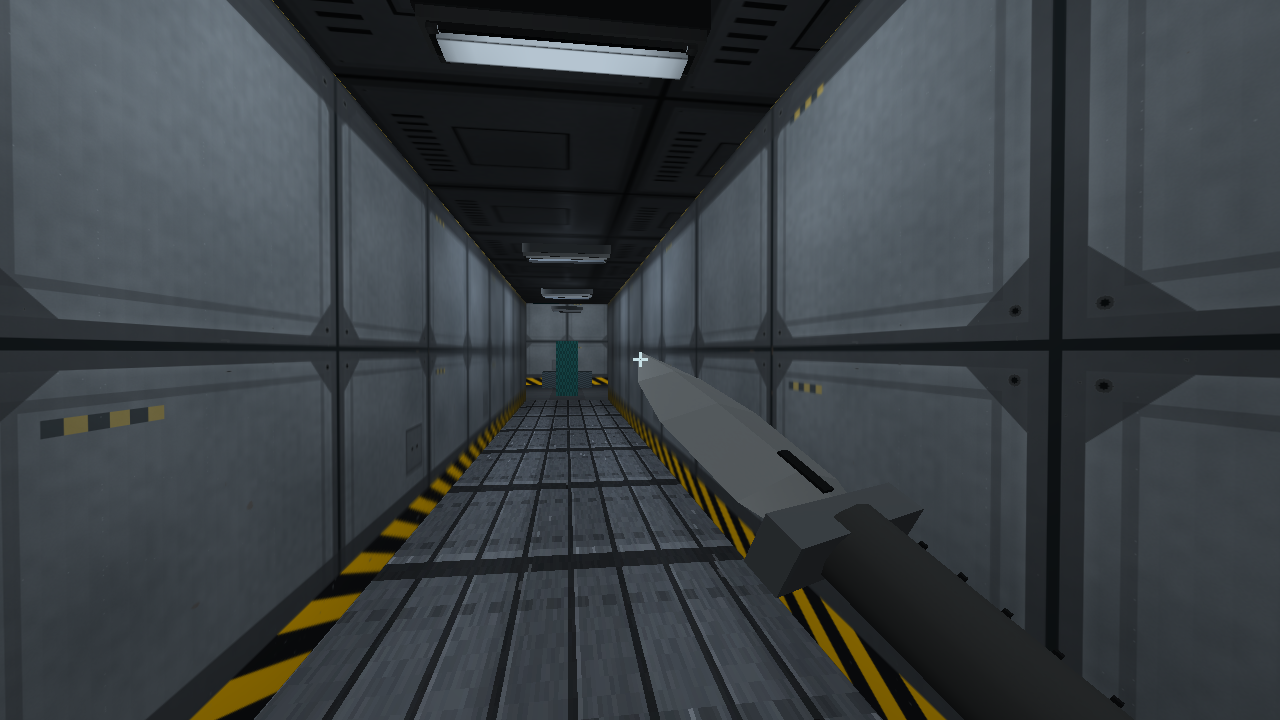
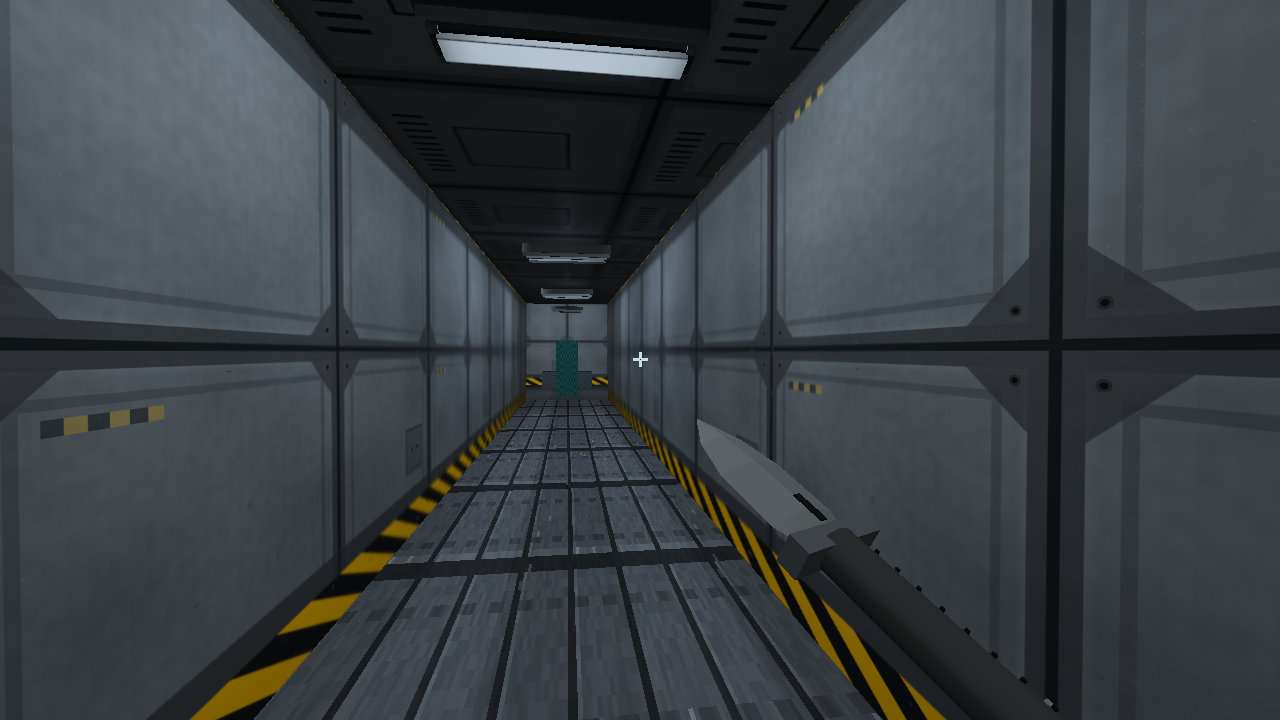
fix: correct weapon grips and reduce viewmodel footprint

Changed region(s): [[0.5, 0.4889, 0.75, 0.8556], [0.75, 0.8556, 0.8125, 0.9472], [0.5625, 0.6722, 0.5938, 0.7028]]

diff --git a/tests/test_renderer.cpp b/tests/test_renderer.cpp
@@ -8,6 +8,7 @@
 #include "game/visual/WeaponViewmodelAssets.hpp"
 #include "render/Texture.hpp"
 
+#include <algorithm>
 #include <array>
 #include <cmath>
 #include <cstring>
@@ -1380,6 +1381,42 @@ void testWeaponViewmodelAssets()
             "weapon viewmodel groups physical materials into few draws");
         expect(triangles > 100U && triangles < 1600U,
             "weapon viewmodel stays within its triangle budget");
+        if (role != HudWeaponRole::Knife) {
+            const auto& grip = meshes[static_cast<std::size_t>(
+                WeaponMaterial::Polymer)];
+            float minimumY = std::numeric_limits<float>::max();
+            float maximumY = -std::numeric_limits<float>::max();
+            std::size_t gripVertices = 0U;
+            for (const auto& vertex : grip.vertices) {
+                if (vertex.semanticRegion != weaponGripSemanticRegion) {
+                    continue;
+                }
+                minimumY = std::min(minimumY, vertex.position.y);
+                maximumY = std::max(maximumY, vertex.position.y);
+                ++gripVertices;
+            }
+            const float middleY = (minimumY + maximumY) * 0.5F;
+            float upperZ = 0.0F;
+            float lowerZ = 0.0F;
+            std::size_t upperCount = 0U;
+            std::size_t lowerCount = 0U;
+            for (const auto& vertex : grip.vertices) {
+                if (vertex.semanticRegion != weaponGripSemanticRegion) {
+                    continue;
+                }
+                if (vertex.position.y > middleY) {
+                    upperZ += vertex.position.z;
+                    ++upperCount;
+                } else {
+                    lowerZ += vertex.position.z;
+                    ++lowerCount;
+                }
+            }
+            expect(gripVertices == 24U && upperCount > 0U && lowerCount > 0U
+                    && lowerZ / static_cast<float>(lowerCount)
+                        < upperZ / static_cast<float>(upperCount),
+                "firearm grip base rakes toward the rear, not the muzzle");
+        }
     }
     for (std::size_t material = 0U; material < weaponMaterialCount; ++material) {
         const auto images = makeUsedWeaponMaterialImages(

diff --git a/src/game/visual/WeaponViewmodelAssets.cpp b/src/game/visual/WeaponViewmodelAssets.cpp
@@ -25,7 +25,8 @@ constexpr std::size_t indexOf(const WeaponMaterial material) noexcept
 class WeaponMeshBuilder {
 public:
     void box(const WeaponMaterial material, const Vec3 center,
-        const Vec3 size, const float tiltDegrees = 0.0F)
+        const Vec3 size, const float tiltDegrees = 0.0F,
+        const std::uint32_t semanticRegion = 0U)
     {
         MeshData& destination = meshes_[indexOf(material)];
         const MeshData source = wkc::render::makeBoxMesh();
@@ -44,6 +45,7 @@ public:
             vertex.normal = {normal.x,
                 normal.y * cosine - normal.z * sine,
                 normal.y * sine + normal.z * cosine};
+            vertex.semanticRegion = semanticRegion;
             destination.vertices.push_back(vertex);
         }
         for (const std::uint32_t index : source.indices) {
@@ -233,7 +235,7 @@ void makePistol(WeaponMeshBuilder& mesh)
     using enum WeaponMaterial;
     mesh.box(Polymer, {0.0F, -0.052F, -0.02F}, {0.18F, 0.115F, 0.37F});
     mesh.box(Polymer, {0.0F, -0.205F, -0.115F},
-        {0.125F, 0.29F, 0.15F}, -14.0F);
+        {0.125F, 0.29F, 0.15F}, 22.0F, weaponGripSemanticRegion);
     mesh.box(Recess, {0.0F, -0.355F, -0.072F}, {0.13F, 0.025F, 0.17F});
     mesh.beveledPrism(CoatedSteel, {0.0F, 0.055F, 0.015F},
         {0.205F, 0.125F, 0.55F}, 0.022F);
@@ -282,7 +284,7 @@ void makeCarbine(WeaponMeshBuilder& mesh)
     mesh.box(Polymer, {0.0F, -0.035F, -0.655F}, {0.225F, 0.20F, 0.07F});
     mesh.box(Recess, {0.0F, -0.035F, -0.697F}, {0.218F, 0.20F, 0.019F});
     mesh.box(Polymer, {0.0F, -0.185F, -0.095F},
-        {0.13F, 0.275F, 0.155F}, -11.0F);
+        {0.13F, 0.275F, 0.155F}, 18.0F, weaponGripSemanticRegion);
     mesh.box(Recess, {0.0F, -0.16F, 0.015F}, {0.025F, 0.025F, 0.185F});
     mesh.box(Recess, {0.0F, -0.222F, 0.093F}, {0.025F, 0.105F, 0.026F});
     mesh.box(Recess, {0.0F, -0.27F, 0.025F}, {0.025F, 0.021F, 0.14F});

diff --git a/src/game/visual/GdpRenderer.cpp b/src/game/visual/GdpRenderer.cpp
@@ -2012,15 +2012,18 @@ bool GdpRenderer::render(
         const bool carbine = weaponViewmodel.role == HudWeaponRole::Carbine;
         const bool knife = weaponViewmodel.role == HudWeaponRole::Knife;
         const wkc::core::Vec3 baseOffset{
-            carbine ? 0.28F : knife ? 0.31F : 0.19F,
-            carbine ? -0.33F : knife ? -0.29F : -0.19F,
-            carbine ? 0.78F : knife ? 0.56F : 0.88F,
+            carbine ? 0.47F : knife ? 0.38F : 0.27F,
+            carbine ? -0.48F : knife ? -0.38F : -0.31F,
+            carbine ? 1.18F : knife ? 0.83F : 0.94F,
         };
         const wkc::core::Vec3 localOffset = baseOffset + pose.offset;
         const wkc::core::Vec3 anchor = camera.position
             + (right * localOffset.x) + (up * localOffset.y)
             + (forward * localOffset.z);
         constexpr float degreesToRadians = std::numbers::pi_v<float> / 180.0F;
+        // Keep the weapon in the lower-right periphery. Geometry and flash
+        // scale together; the camera-space firing ray remains unchanged.
+        const float presentationScale = knife ? 0.80F : carbine ? 0.78F : 0.80F;
         const wkc::core::Mat4 root
             = wkc::core::translationMatrix(anchor)
             * basisMatrix(right, up, forward)
@@ -2031,7 +2034,9 @@ bool GdpRenderer::render(
                     * degreesToRadians)
             * wkc::core::rotationXMatrix(
                 (pose.rotationDegrees.x + (knife ? -28.0F : -7.0F))
-                    * degreesToRadians);
+                    * degreesToRadians)
+            * wkc::core::scaleMatrix({presentationScale,
+                presentationScale, presentationScale});
         const float seedTone = static_cast<float>(
             (weaponViewmodel.visualSeed >> 9U) & 0x0fU) / 15.0F * 0.025F;
         const std::array materialColors{

diff --git a/src/game/visual/WeaponViewmodelAssets.hpp b/src/game/visual/WeaponViewmodelAssets.hpp
@@ -6,6 +6,7 @@
 
 #include <array>
 #include <cstddef>
+#include <cstdint>
 
 namespace gdp::game::visual {
 
@@ -21,6 +22,7 @@ enum class WeaponMaterial : std::size_t {
 inline constexpr std::size_t weaponMaterialCount
     = static_cast<std::size_t>(WeaponMaterial::Count);
 inline constexpr std::size_t weaponRoleCount = 3U;
+inline constexpr std::uint32_t weaponGripSemanticRegion = 1U;
 
 struct WeaponMaterialImages {
     wkc::render::ImageData albedo;

diff --git a/visual/proposals/weapon_first_person_proposal_v1.md b/visual/proposals/weapon_first_person_proposal_v1.md
@@ -21,7 +21,8 @@ capturas in-engine: ../validation/weapon_first_person_v1_used_pistol_gameplay.pn
                    ../validation/weapon_first_person_v1_used_knife_gameplay.png;
                    ../validation/weapon_first_person_v1_used_knife_close.png;
                    ../validation/weapon_first_person_v1_used_carbine_potato.png;
-                   ../validation/weapon_first_person_v1_used_comparison.png
+                   ../validation/weapon_first_person_v1_used_comparison.png;
+                   ../validation/weapon_first_person_v1_used_pose_correction_comparison.png
 ```
 
 ## Objetivo
@@ -110,6 +111,22 @@ Os perfis leves preservam as mesmas silhuetas e desligam a resposta detalhada
 de normal/RMA conforme a configuração já existente.
 
 Estado final ainda pendente de aceitação humana: `IMPLEMENTADA EM VALIDAÇÃO`.
+
+### Correção após o primeiro feedback
+
+O usuário identificou a empunhadura invertida e a área excessiva das armas na
+tela. A pistola e o rifle agora inclinam a base do cabo para trás, não para o
+cano; um teste de geometria verifica essa relação. A apresentação foi reduzida
+e reposicionada no canto inferior direito sem mover a mira lógica ou alterar
+alcance, dano e animações. A faca também recebeu enquadramento menor.
+
+Na [comparação antes/depois](../validation/weapon_first_person_v1_used_pose_correction_comparison.png),
+as colunas são pistola, rifle e faca; a primeira linha é a captura anterior e
+a segunda é a correção, ambas em 1280×720. Comparando os pixels alterados em
+relação à mesma cena sem arma, com tolerância de 2% por canal, a área caiu de
+`64039` para `39046` pixels na pistola (~39%), `97401` para `48656` no rifle
+(~50%) e `44465` para `21912` na faca (~51%). Essa é uma medida de ocupação
+visual naquela cena, não um benchmark de GPU nem garantia para todo FOV.
 
 ## Prompts usados
 

diff --git a/visual/TEXTURE_APPROVALS.md b/visual/TEXTURE_APPROVALS.md
@@ -99,7 +99,8 @@ capturas no jogo: visual/validation/weapon_first_person_v1_used_pistol_gameplay.
                   visual/validation/weapon_first_person_v1_used_knife_gameplay.png;
                   visual/validation/weapon_first_person_v1_used_knife_close.png;
                   visual/validation/weapon_first_person_v1_used_carbine_potato.png;
-                  visual/validation/weapon_first_person_v1_used_comparison.png
+                  visual/validation/weapon_first_person_v1_used_comparison.png;
+                  visual/validation/weapon_first_person_v1_used_pose_correction_comparison.png
 resultado final: IMPLEMENTADA EM VALIDAÇÃO (aceitação visual pendente)
 ```
 
